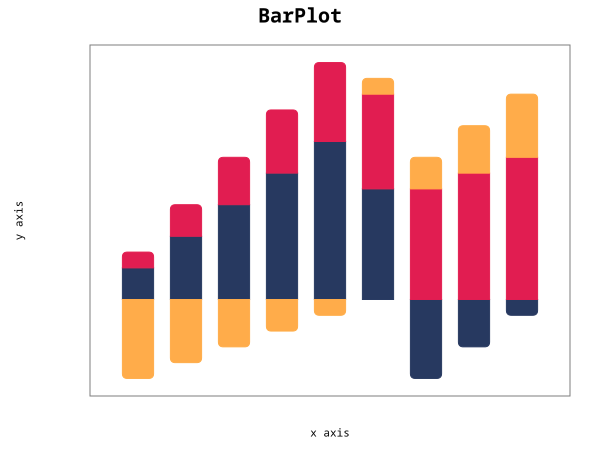
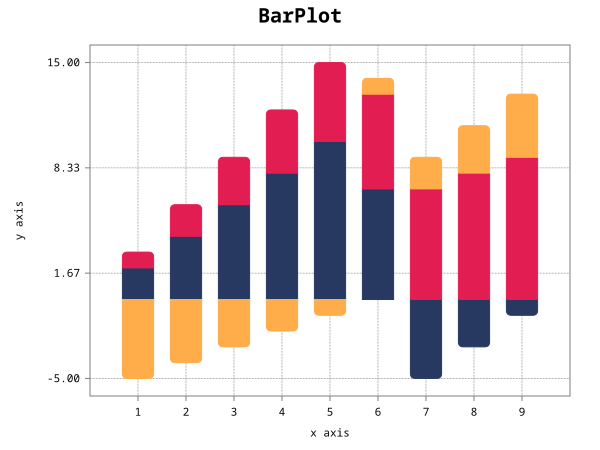
[BarPlot] Draw axes and grid

diff --git a/src/BarPlotBase.cpp b/src/BarPlotBase.cpp
@@ -18,6 +18,9 @@
 
 #include "BarPlotBase.hpp"
 
+#include <fmt/format.h>
+
+#include <iostream>
 #include <set>
 #include <string>
 #include <utility>
@@ -25,6 +28,7 @@
 
 #include "fonts.hpp"
 #include "svg.hpp"
+#include "utility.hpp"
 
 namespace plotcpp {
 
@@ -41,6 +45,8 @@ void BarPlotBase::SetRoundedEdges(bool enable) { m_rounded_borders = enable; }
 void BarPlotBase::SetBarRelativeWidth(float rel_width) {
   m_bar_width_rel = std::max(0.0f, std::min(1.0f, rel_width));
 }
+
+void BarPlotBase::AddYMarker(Real marker) { m_y_custom_markers.insert(marker); }
 
 void BarPlotBase::Clear() {
   ClearData();
@@ -64,10 +70,12 @@ void BarPlotBase::Build() {
 
   DrawBackground();
   DrawTitle();
-  DrawBars();
-  DrawFrame();
   DrawXLabel();
   DrawYLabel();
+  DrawXAxis();
+  DrawYAxis();
+  DrawBars();
+  DrawFrame();
 }
 
 float BarPlotBase::TranslateToFrame(Real y) const {
@@ -113,6 +121,19 @@ void BarPlotBase::CalculateFrame() {
 
   m_zoom_y = std::abs((m_frame_h * (1 - 2 * BAR_FRAME_Y_MARGIN_REL)) /
                       static_cast<float>(m_y_range.second - m_y_range.first));
+
+  const unsigned int num_y_markers =
+      std::min(MAX_NUM_Y_MARKERS,
+               static_cast<unsigned int>(m_frame_h / PIXELS_PER_Y_MARKER));
+  m_y_markers = ranges::PartitionRange(m_y_range, num_y_markers);
+
+  // Calculate font sizes
+  const std::string DUMMY_TEXT = "-000.00";
+  const float y_axis_font_size =
+      fonts::ConstrainedFontSize(BASE_AXIS_FONT_SIZE, DUMMY_TEXT, TEXT_FONT,
+                                 (3.0f * m_frame_x / 4.0f) - MARKER_LENGTH,
+                                 m_frame_h / static_cast<float>(num_y_markers));
+  m_axis_font_size = std::min({y_axis_font_size});
 }
 
 void BarPlotBase::DrawBars() {
@@ -209,6 +230,113 @@ void BarPlotBase::DrawBars() {
 }
 
 void BarPlotBase::DrawBackground() { m_svg.DrawBackground(BACKGROUND_COLOR); }
+
+void BarPlotBase::DrawXAxis() {
+  if (m_num_bars <= 1) {
+    // TODO: Draw marker in the middle
+    return;
+  }
+
+  const std::size_t max_num_x_markers =
+      static_cast<std::size_t>(m_frame_w / PIXELS_PER_X_MARKER);
+  const std::size_t marker_step = m_num_bars / max_num_x_markers;
+
+  const float bar_horizontal_space =
+      (m_frame_w * (1 - 2 * BAR_FRAME_Y_MARGIN_REL)) /
+      static_cast<float>(m_num_bars);
+
+  for (std::size_t i = 0; i < m_num_bars; i += marker_step) {
+    const float x = m_frame_x + (m_frame_w * BAR_FRAME_X_MARGIN_REL) +
+                    (bar_horizontal_space / 2.0f) +
+                    (static_cast<float>(i) * bar_horizontal_space);
+    const auto y = m_frame_y + m_frame_h;
+
+    svg::Line marker_line{.x1 = x,
+                          .y1 = y,
+                          .x2 = x,
+                          .y2 = y + MARKER_LENGTH,
+                          .stroke_color = FRAME_STROKE_COLOR,
+                          .stroke_opacity = 1.0f,
+                          .stroke_width = 1};
+    m_svg.DrawLine(marker_line);
+
+    const std::string marker_text =
+        (m_data_type == DataType::NUMERIC)
+            ? fmt::format("{:.2f}", m_numeric_x_data[i])
+            : m_categorical_x_data[i];
+    float font_em = m_axis_font_size / 12.0f;
+    auto text_node = m_svg.DrawText(
+        svg::Text{marker_text, x, y + MARKER_LENGTH + fonts::EmToPx(font_em),
+                  m_axis_font_size, TEXT_FONT});
+    svg::SetAttribute(text_node, "text-anchor", "middle");
+
+    if (m_grid_enable) {
+      svg::Line grid_line{.x1 = x,
+                          .y1 = m_frame_y,
+                          .x2 = x,
+                          .y2 = m_frame_y + m_frame_h,
+                          .stroke_color = FRAME_STROKE_COLOR,
+                          .stroke_opacity = 1.0f,
+                          .stroke_width = 0.75f};
+      auto grid_line_node = m_svg.DrawLine(grid_line);
+      svg::SetAttribute(grid_line_node, "stroke-dasharray", "0.75,0.75");
+    }
+  }
+}
+
+void BarPlotBase::DrawYAxis() {
+  std::set<Real> markers;
+  markers.insert(m_y_markers.begin(), m_y_markers.end());
+  markers.insert(m_y_custom_markers.begin(), m_y_custom_markers.end());
+
+  if (markers.size() <= 1) {
+    // TODO: Draw marker in the middle
+    return;
+  }
+
+  for (const auto& marker : markers) {
+    if ((marker < m_y_range.first) || (marker > m_y_range.second)) {
+      continue;
+    }
+
+    const auto y = TranslateToFrame(marker);
+    const float x = m_frame_x;
+
+    svg::Line marker_line{.x1 = x,
+                          .y1 = y,
+                          .x2 = x - MARKER_LENGTH,
+                          .y2 = y,
+                          .stroke_color = FRAME_STROKE_COLOR,
+                          .stroke_opacity = 1.0f,
+                          .stroke_width = 1};
+    m_svg.DrawLine(marker_line);
+
+    float font_em =
+        m_axis_font_size /
+        12.0f;  // Some SVG renderers don't support baseline alignment
+    const std::string marker_text =
+        (!m_round_y_markers)
+            ? fmt::format("{:.2f}", marker)
+            : fmt::format("{:d}", static_cast<int>(std::round(marker)));
+
+    auto text_node = m_svg.DrawText(svg::Text{
+        marker_text, x - 2 * MARKER_LENGTH, y + fonts::EmToPx(font_em / 4.0f),
+        m_axis_font_size, TEXT_FONT});
+    svg::SetAttribute(text_node, "text-anchor", "end");
+
+    if (m_grid_enable) {
+      svg::Line grid_line{.x1 = m_frame_x,
+                          .y1 = y,
+                          .x2 = m_frame_x + m_frame_w,
+                          .y2 = y,
+                          .stroke_color = FRAME_STROKE_COLOR,
+                          .stroke_opacity = 1.0f,
+                          .stroke_width = 0.75f};
+      auto grid_line_node = m_svg.DrawLine(grid_line);
+      svg::SetAttribute(grid_line_node, "stroke-dasharray", "0.75,0.75");
+    }
+  }
+}
 
 void BarPlotBase::DrawXLabel() {
   if (m_x_label.empty()) {

diff --git a/include/BarPlotBase.hpp b/include/BarPlotBase.hpp
@@ -45,6 +45,8 @@ class BarPlotBase : public Figure {
 
   void SetBarRelativeWidth(float rel_width);
 
+  void AddYMarker(Real marker);
+
  protected:
   explicit BarPlotBase() = default;
 
@@ -54,7 +56,7 @@ class BarPlotBase : public Figure {
     NUMERIC,
     CATEGORICAL,
   };
-  DataType m_data_type = DataType::CATEGORICAL;
+  DataType m_data_type = DataType::NUMERIC;
 
   struct DataSeries {
     std::vector<Real> values;
@@ -75,10 +77,9 @@ class BarPlotBase : public Figure {
 
   std::pair<Real, Real> m_y_range;
 
-  std::set<Real> m_x_markers;
   std::set<Real> m_y_markers;
-  std::set<Real> m_x_custom_markers;
   std::set<Real> m_y_custom_markers;
+  bool m_round_y_markers = false;
 
   bool m_grid_enable = false;
   bool m_rounded_borders = true;
@@ -101,6 +102,8 @@ class BarPlotBase : public Figure {
   const std::string TEXT_FONT{"monospace"};
   float m_axis_font_size = 11.0f;
 
+  static constexpr float PIXELS_PER_X_MARKER = 80.0f;
+  static constexpr float PIXELS_PER_Y_MARKER = 80.0f;
   static constexpr float MARKER_LENGTH = 5.0f;
   static constexpr unsigned int MAX_NUM_Y_MARKERS = 5;
   static constexpr unsigned int MAX_NUM_X_MARKERS = 10;
@@ -113,6 +116,8 @@ class BarPlotBase : public Figure {
   float m_zoom_y = 1.0f;
   float m_bar_top_y;
 
+  bool m_discrete_x_axis = true;
+
   /** Calculate all frame parameters needed to draw the plots. */
   void CalculateFrame();
 
@@ -123,6 +128,8 @@ class BarPlotBase : public Figure {
 
   void DrawBars();
 
+  void DrawXAxis();
+  void DrawYAxis();
   void DrawXLabel();
   void DrawYLabel();
 };

diff --git a/src/BarPlot.cpp b/src/BarPlot.cpp
@@ -18,7 +18,16 @@
 
 #include "BarPlot.hpp"
 
+#include <fmt/format.h>
+
+#include <numeric>
+
 namespace plotcpp {
+
+BarPlot::BarPlot() {
+  m_round_y_markers = false;
+  m_discrete_x_axis = true;
+}
 
 void BarPlot::Plot(const std::vector<Real>& x_data,
                    const std::vector<Real>& y_data, const Color& color) {
@@ -35,12 +44,12 @@ void BarPlot::Plot(const std::vector<Real>& x_data,
   }
 
   if (m_data_type != DataType::NUMERIC) {
-    m_categorical_x_data.clear();
     m_y_data.clear();
   }
 
   m_data_type = DataType::NUMERIC;
   m_numeric_x_data = x_data;
+  m_categorical_x_data.clear();
   m_y_data.emplace_back(DataSeries{y_data, color});
 }
 
@@ -59,18 +68,26 @@ void BarPlot::Plot(const std::vector<std::string>& x_data,
   }
 
   if (m_data_type != DataType::CATEGORICAL) {
-    m_numeric_x_data.clear();
     m_y_data.clear();
   }
 
   m_data_type = DataType::CATEGORICAL;
   m_categorical_x_data = x_data;
+  m_numeric_x_data.clear();
   m_y_data.emplace_back(DataSeries{y_data, color});
 }
 
 void BarPlot::Plot(const std::vector<Real>& y_data, const Color& color) {
   if (m_y_data.size() == 0) {
     m_num_bars = y_data.size();
+    m_numeric_x_data.clear();
+    m_categorical_x_data.resize(m_num_bars);
+
+    for (std::size_t i = 0; i < m_num_bars; ++i) {
+      m_categorical_x_data[i] = fmt::format("{:d}", i + 1);
+    }
+
+    m_data_type = DataType::CATEGORICAL;
   } else {
     if (y_data.size() != m_num_bars) {
       return;

diff --git a/src/Plot2D.cpp b/src/Plot2D.cpp
@@ -268,10 +268,12 @@ void Plot2D::CalculateFrame() {
 
   // Calculate markers
   const unsigned int num_x_markers =
-      std::min(MAX_NUM_X_MARKERS, static_cast<unsigned int>(m_frame_w / 80));
+      std::min(MAX_NUM_X_MARKERS,
+               static_cast<unsigned int>(m_frame_w / PIXELS_PER_X_MARKER));
   m_x_markers = ranges::PartitionRange(m_x_range, num_x_markers);
   const unsigned int num_y_markers =
-      std::min(MAX_NUM_Y_MARKERS, static_cast<unsigned int>(m_frame_h / 80));
+      std::min(MAX_NUM_Y_MARKERS,
+               static_cast<unsigned int>(m_frame_h / PIXELS_PER_Y_MARKER));
   m_y_markers = ranges::PartitionRange(m_y_range, num_y_markers);
 
   // Calculate font sizes
@@ -355,7 +357,8 @@ void Plot2D::CalculateCategoricalFrame() {
       static_cast<float>(abs(m_frame_h / (m_y_range.second - m_y_range.first)));
 
   const unsigned int num_y_markers =
-      std::min(MAX_NUM_Y_MARKERS, static_cast<unsigned int>(m_frame_h / 80));
+      std::min(MAX_NUM_Y_MARKERS,
+               static_cast<unsigned int>(m_frame_h / PIXELS_PER_Y_MARKER));
   m_y_markers = ranges::PartitionRange(m_y_range, num_y_markers);
 }
 

diff --git a/src/HistogramPlot.cpp b/src/HistogramPlot.cpp
@@ -25,7 +25,11 @@
 
 namespace plotcpp {
 
-HistogramPlot::HistogramPlot() { SetBarRelativeWidth(1.0f); }
+HistogramPlot::HistogramPlot() {
+  SetBarRelativeWidth(1.0f);
+  m_round_y_markers = true;
+  m_discrete_x_axis = false;
+}
 
 void HistogramPlot::Clear() { ClearData(); }
 
@@ -34,12 +38,11 @@ void HistogramPlot::Plot(const std::vector<Real>& values, unsigned int num_bins,
   ClearData();
 
   std::vector<Real> intervals = CalculateIntervals(values, num_bins);
-  std::vector<Real> bins = CalculateBins(intervals);
+  m_numeric_x_data = CalculateBins(intervals);
   std::vector<Real> counts = CalculateHistogram(values, intervals);
-  m_num_bars = counts.size();
-
-  m_numeric_x_data = bins;
+  m_num_bars = m_numeric_x_data.size();
   m_y_data.push_back(DataSeries{counts, color});
+  m_data_type = DataType::NUMERIC;
 }
 
 std::vector<Real> HistogramPlot::CalculateIntervals(

diff --git a/include/Plot2D.hpp b/include/Plot2D.hpp
@@ -294,6 +294,8 @@ class Plot2D : public Figure {
   const std::string TEXT_FONT{"monospace"};
   float m_axis_font_size;
 
+  static constexpr float PIXELS_PER_X_MARKER = 80.0f;
+  static constexpr float PIXELS_PER_Y_MARKER = 80.0f;
   static constexpr float MARKER_LENGTH = 5.0f;
   static constexpr unsigned int MAX_NUM_Y_MARKERS = 5;
   static constexpr unsigned int MAX_NUM_X_MARKERS = 10;
@@ -328,6 +330,8 @@ class Plot2D : public Figure {
   void DrawYLabel();
 
   void DrawLegend();
+
+  friend class Plot2DTest;
 };
 
 }  // namespace plotcpp

diff --git a/test/figure_tester.cpp b/test/figure_tester.cpp
@@ -157,6 +157,7 @@ void BarPlot() {
   plot.SetTitle("BarPlot");
   plot.SetXLabel("x axis");
   plot.SetYLabel("y axis");
+  plot.SetGridEnable(true);
 
   plot.Build();
   plot.Save(BAR_PLOT_FILENAME);
@@ -182,6 +183,7 @@ void HistograpPlot() {
   plot.SetTitle("HistogramPlot");
   plot.SetXLabel("values");
   plot.SetYLabel("Counts");
+  plot.SetGridEnable(true);
 
   plot.Build();
   plot.Save(HISTOGRAM_PLOT_FILENAME);

diff --git a/include/BarPlot.hpp b/include/BarPlot.hpp
@@ -51,7 +51,7 @@ namespace plotcpp {
  */
 class BarPlot : public BarPlotBase {
  public:
-  BarPlot() = default;
+  BarPlot();
   virtual ~BarPlot() = default;
 
   void Plot(const std::vector<Real>& x_data, const std::vector<Real>& y_data,

diff --git a/test/UtilityTest.cpp b/test/UtilityTest.cpp
@@ -26,7 +26,6 @@
 
 namespace plotcpp {
 
-using ::testing::_;
 using ::testing::ElementsAreArray;
 
 TEST(RangesTest, TrivialPartitionRange) {
